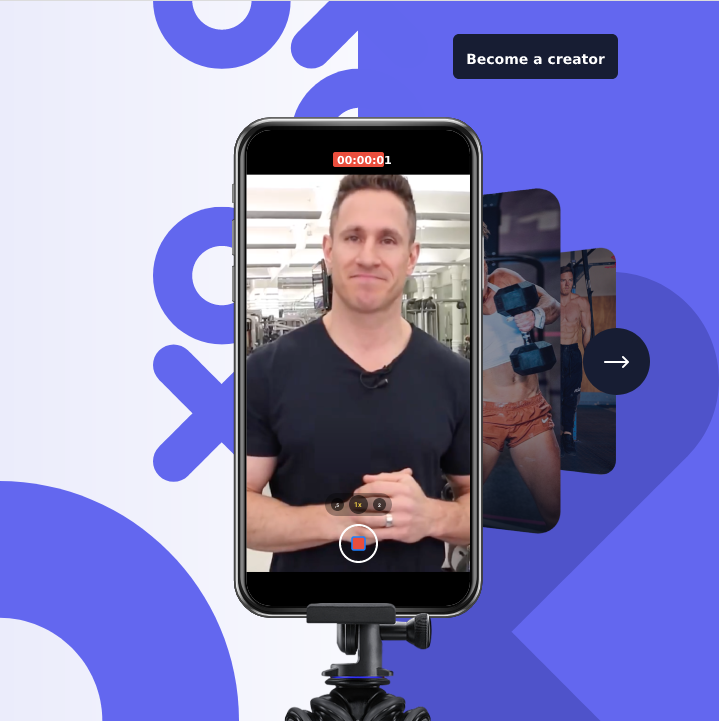
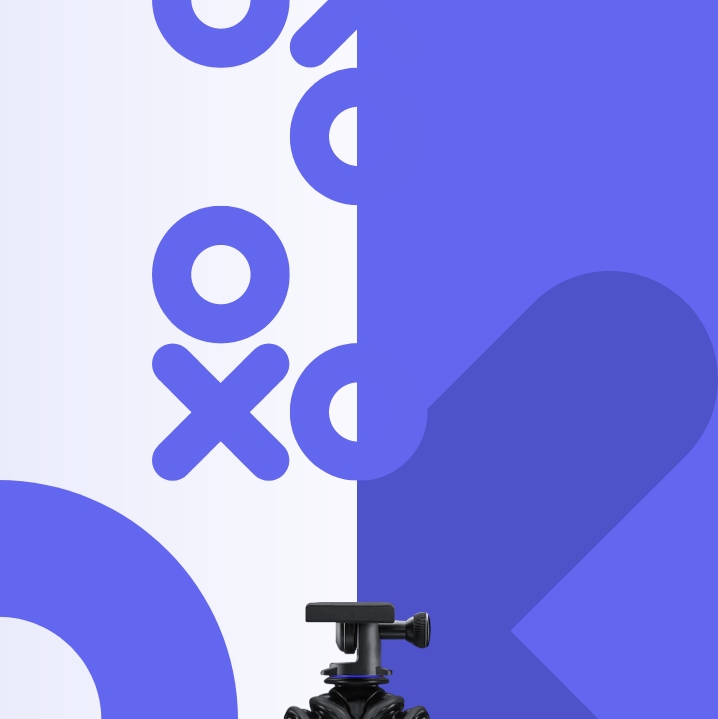
Correct images and styling

diff --git a/components/Hero.vue b/components/Hero.vue
@@ -1,7 +1,7 @@
 <template>
   <div class="container-fluid p-0 h-100">
     <div class="row no-gutters h-100 justify-content-center align-items-center">
-      <div class="col">
+      <div class="col p-5">
         <img src="~assets/images/logo.png" alt="logo" />
 
         <h1>Create, share and <span>earn</span></h1>
@@ -16,76 +16,25 @@
         <button type="button" class="btn btn-primary">Become a creator</button>
       </div>
       <div class="col">
-        <img
-          src="~assets/images/background.png"
-          class="hero__background-image"
-        />
+        <img src="~assets/images/hero.png" class="hero__background-image" />
 
-        <div class="hero__images">
-          <div class="hero__button-right" @click="slideRight">></div>
-        </div>
-      </div>
-    </div>
-  </div>
-  <!-- div
-    v-touch:swipe.left="slideLeft"
-    v-touch:swipe.right="slideRight"
-    class="row row--thoughts"
-  >
-    <div class="staff-slider col col-4 col-stack">
-      <div class="team-slider-profile-pic">
-        <div class="team-image-slider">
-          <transition name="team-fade">
+        <transition name="fade">
+          <div class="hero__images">
             <div
+              class="hero__images--container"
               v-for="(slide, index) in slides"
               v-if="activeSlide === index"
-              :class="{ 'slide-left': slideDirection == 1 }"
+              :class="{ 'slide-left': slideDirection == 0 }"
               :key="index"
-              class="slide"
             >
               <img :src="require(`~/assets/images/${slide.photo}`)" alt="" />
             </div>
-          </transition>
-        </div>
-      </div>
-    </div>
-    <div class="column-5 col col-8 col-stack slider-content">
-      <h3>Thoughts from our team</h3>
-      <div class="slider-container">
-        <transition name="fade">
-          <div
-            v-for="(slide, index) in slides"
-            v-if="activeSlide === index"
-            :class="{ 'slide-left': slideDirection == 0 }"
-            :key="index"
-            class="slider"
-          >
-            <p v-html="slide.quote"></p>
-            <h3 class="team-author">{{ slide.author }},</h3>
-            <h3 class="job-title">{{ slide.title }}</h3>
+            <div class="hero__button-right" @click="slideRight">></div>
           </div>
         </transition>
       </div>
-      <div class="button-container">
-        <div
-          class="team-slider-button team-slider-button__left"
-          @click="slideLeft"
-        >
-          <img src="~/assets/images/hero.png" alt="" class="arrow-image-left" />
-        </div>
-        <div
-          class="team-slider-button team-slider-button__right"
-          @click="slideRight"
-        >
-          <img
-            src="~/assets/images/hero.png"
-            alt=""
-            class="arrow-image-right"
-          />
-        </div>
-      </div>
     </div>
-   /div -->
+  </div>
 </template>
 
 <script>
@@ -97,13 +46,13 @@ export default {
       slideDirection: 0,
       slides: [
         {
-          photo: "hero.png"
+          photo: "phone1.png"
         },
         {
-          photo: "hero.png"
+          photo: "phone1.png"
         },
         {
-          photo: "hero.png"
+          photo: "phone1.png"
         }
       ]
     };
@@ -114,10 +63,6 @@ export default {
   methods: {
     clearIntervalSlider() {
       clearInterval(this.changeInterval);
-    },
-    slideLeft() {
-      this.previousSlide();
-      this.clearIntervalSlider();
     },
     slideRight() {
       this.nextSlide();
@@ -143,6 +88,13 @@ export default {
     width: 100%;
   }
 
+  &__images {
+    &--container {
+      position: absolute;
+      bottom: 0;
+    }
+  }
+
   &__button-right {
     background: #171d33;
     color: #fff;
@@ -155,6 +107,7 @@ export default {
     right: 5%;
   }
 }
+
 .container--thoughts {
   height: 100%;
   position: relative;
